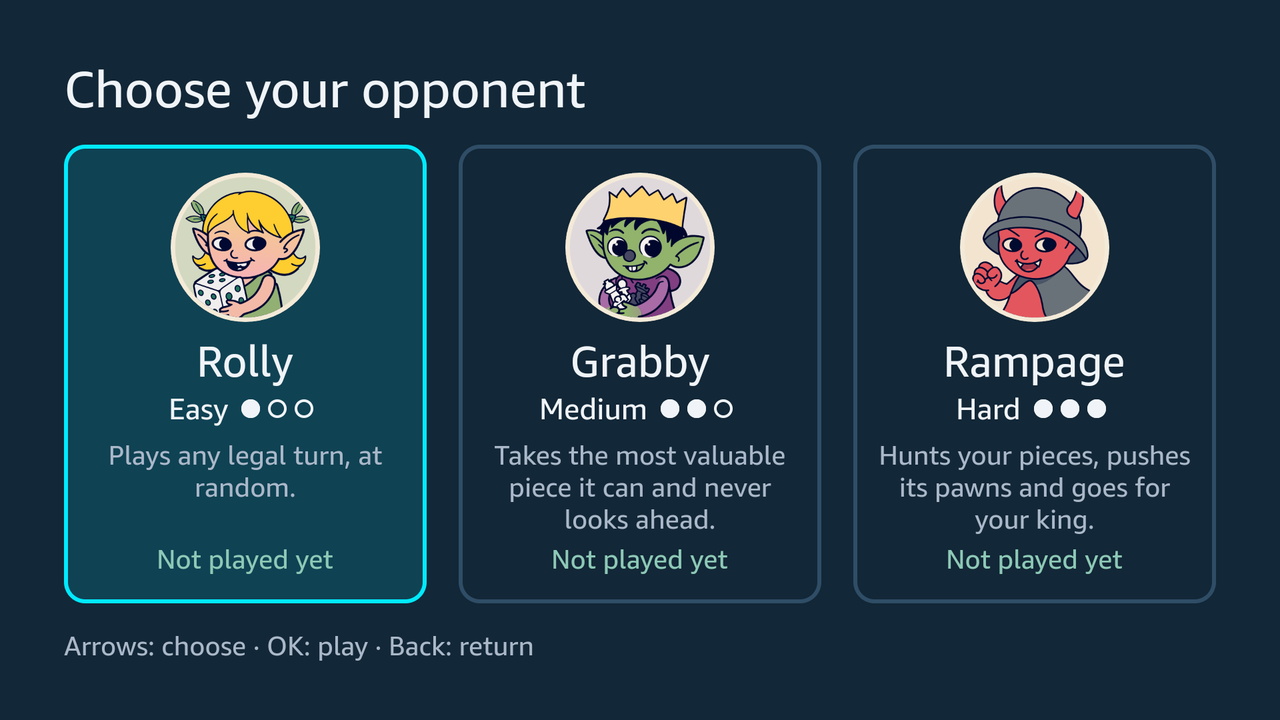
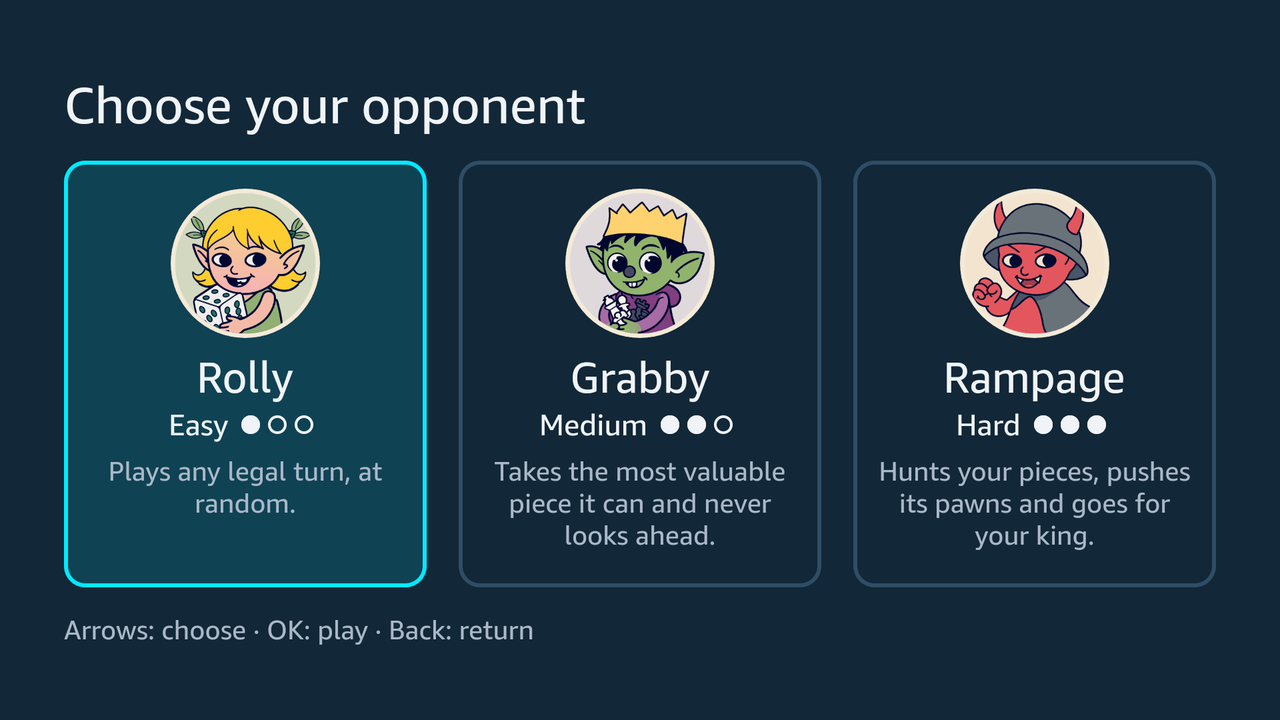
feat: take the record off the opponent cards (#341)
Each opponent card showed "As White: 2W 0D 1L" or "Not played yet".
On the TV that says little: it counts every game played on that TV,
whoever was holding the remote, so it does not say who won or lost,
and the people who play on one TV change from one evening to the next.
The Hot Seat record left the home screen for the same reason (#130).
A view that can tell players apart comes later; the first version
shows no record.

- The cards show the portrait, name, level and how the opponent plays.
  recordLines, recordAgainst and the ledger prop of OpponentScreen and
  GameScreen are gone.
- The ledger still counts every finished game, so the save format,
  the exactly-once counting and the testers' saved results are
  unchanged, and the privacy page stays true.
- Nothing renders the ledger now, so App keeps it in a ref rather than
  in state: counting a result no longer re-renders the app.
- The card test checks that a card shows exactly its name, level and
  style; the core test reads the ledger's per-opponent counts directly.
- README, native/README.md and the site no longer describe a record on
  the cards, and the opponents screenshot is retaken on the Vega
  Virtual Device.

Changed region(s): [[0.0312, 0.0917, 0.9688, 0.9167]]

diff --git a/native/src/OpponentScreen.tsx b/native/src/OpponentScreen.tsx
@@ -1,15 +1,15 @@
 // The choice of local opponent (#115): one card each, side by side, walked with
-// the arrows. A card shows the opponent's face, name and level, one line on how
-// it plays, and the person's record against it, so the home screen need not.
+// the arrows. A card shows the opponent's face, name and level, and one line on
+// how it plays. It shows no record against the opponent: the results are kept,
+// but a count by side cannot tell who was holding the remote, and the people
+// who play on one TV change from one evening to the next.
 //
 // Like the menus, the screen only draws what the reducer in screen.ts says:
 // the focused card and whether OK is held on it.
 import React from 'react';
 import { View, Text, useWindowDimensions } from 'react-native';
-import { OPPONENTS, recordAgainst } from '../../src/core/opponents';
+import { OPPONENTS } from '../../src/core/opponents';
 import type { Opponent } from '../../src/core/opponents';
-import type { Side } from '../../src/core/game';
-import type { BotRecord, Ledger } from '../../src/core/ledger';
 import { PORTRAIT_OF, Portrait } from './Portrait';
 import { THEME } from './theme';
 import { safeInsets } from './layout';
@@ -42,32 +42,16 @@ const Pips = ({ level }: { level: Opponent['level'] }) => {
   );
 };
 
-const line = (side: string, record: BotRecord): string =>
-  `As ${side}: ${record.wins}W ${record.draws}D ${record.losses}L`;
-
-// The record against one opponent, one line per side played.
-export const recordLines = (
-  sides: Partial<Record<Side, BotRecord>>,
-): string[] => {
-  const lines = [
-    ...(sides.w ? [line('White', sides.w)] : []),
-    ...(sides.b ? [line('Black', sides.b)] : []),
-  ];
-  return lines.length ? lines : ['Not played yet'];
-};
-
 const Card = ({
   opponent,
   width,
   focused,
   pressed,
-  ledger,
 }: {
   opponent: Opponent;
   width: number;
   focused: boolean;
   pressed: boolean;
-  ledger?: Ledger;
 }) => {
   const fill = pressed ? THEME.pressedFill : THEME.focusFill;
   return (
@@ -106,13 +90,6 @@ const Card = ({
       >
         {opponent.style}
       </Text>
-      {recordLines(ledger ? recordAgainst(ledger, opponent.mode) : {}).map(
-        (text) => (
-          <Text key={text} style={{ color: '#8dc9b6', fontSize: 20 }}>
-            {text}
-          </Text>
-        ),
-      )}
     </View>
   );
 };
@@ -120,13 +97,11 @@ const Card = ({
 export const OpponentScreen = ({
   index,
   pressed,
-  ledger,
 }: {
   // The focused card.
   index: number;
   // OK is held on it.
   pressed: boolean;
-  ledger?: Ledger;
 }) => {
   const { width, height } = useWindowDimensions();
   const insets = safeInsets(width, height);
@@ -154,7 +129,6 @@ export const OpponentScreen = ({
             width={card}
             focused={i === index}
             pressed={pressed}
-            ledger={ledger}
           />
         ))}
       </View>

diff --git a/native/test/opponents.test.tsx b/native/test/opponents.test.tsx
@@ -4,16 +4,15 @@ import { test } from 'node:test';
 import assert from 'node:assert/strict';
 import React from 'react';
 import renderer, { act } from 'react-test-renderer';
-import { OpponentScreen, recordLines } from '../src/OpponentScreen';
+import { OpponentScreen } from '../src/OpponentScreen';
 import { FACE_OF, PORTRAIT_OF, portraitPath } from '../src/Portrait';
 import { FACES } from '../src/faces';
 import { THEME } from '../src/theme';
 import { OPPONENTS } from '../../src/core/opponents';
-import { emptyLedger, type Ledger } from '../../src/core/ledger';
 import { isHost, type Instance, type Style } from './support';
 
 const mount = (
-  props: { index: number; pressed?: boolean; ledger?: Ledger } = { index: 0 },
+  props: { index: number; pressed?: boolean } = { index: 0 },
 ): Instance => {
   let tree!: renderer.ReactTestRenderer;
   act(() => {
@@ -104,20 +103,15 @@ test('the focused card is framed in the cursor’s colour, and shrinks while OK 
   assert.deepEqual(style(held, 0).transform, [{ scale: 1 }]);
 });
 
-test('a card shows the person’s record against that opponent, by side', () => {
-  const ledger: Ledger = {
-    ...emptyLedger(),
-    bots: {
-      greedy: {
-        w: { wins: 2, draws: 0, losses: 1 },
-        b: { wins: 0, draws: 1, losses: 3 },
-      },
-    },
-  };
-  const shown = cards(mount({ index: 0, ledger }));
-  assert.ok(texts(shown[0]).includes('Not played yet'));
-  assert.ok(texts(shown[1]).includes('As White: 2W 0D 1L'));
-  assert.ok(texts(shown[1]).includes('As Black: 0W 1D 3L'));
-  assert.ok(texts(shown[2]).includes('Not played yet'));
-  assert.deepEqual(recordLines({}), ['Not played yet']);
+test('a card shows who the opponent is and how it plays, and no record', () => {
+  // A count by side cannot tell who was holding the remote, so the card says
+  // nothing about earlier games.
+  assert.deepEqual(
+    cards(mount()).map(texts),
+    OPPONENTS.map((opponent) => [
+      opponent.name,
+      opponent.level,
+      opponent.style,
+    ]),
+  );
 });

diff --git a/native/src/App.tsx b/native/src/App.tsx
@@ -155,7 +155,9 @@ export const App = ({
       return { ledger: emptyLedger(), copyPending: !keptAside(ledgerStore) };
     }
   });
-  const [ledger, setLedger] = React.useState(openedLedger.ledger);
+  // Nothing on screen shows the ledger, so it is kept in a ref rather than in
+  // state: counting a result renders nothing.
+  const ledger = React.useRef(openedLedger.ledger);
   const copyPending = React.useRef(openedLedger.copyPending);
 
   // A result is recorded whenever one is seen, including on the launch after a
@@ -170,19 +172,16 @@ export const App = ({
         if (!keptAside(ledgerStore)) return;
         copyPending.current = false;
       }
-      setLedger((current) => {
-        const next = record(current, game);
-        if (next !== current)
-          void ledgerStore.save(next).catch(() => undefined);
-        return next;
-      });
+      const next = record(ledger.current, game);
+      if (next === ledger.current) return;
+      ledger.current = next;
+      void ledgerStore.save(next).catch(() => undefined);
     },
     [ledgerStore],
   );
 
   // Launch goes through the same count() as a game finishing in play, so there
-  // is one path that records a result. It sets state from an effect, once, and
-  // only when a finished game was never counted: one extra render at launch.
+  // is one path that records a result.
   React.useEffect(() => {
     if (opened.game) count(opened.game);
   }, [count, opened.game]);
@@ -434,7 +433,6 @@ export const App = ({
           options={options}
           initial={attempt.game}
           onCommit={onCommit}
-          ledger={ledger}
           onState={onState}
           sounds={sounds}
           initialSound={attempt.sound}

diff --git a/native/src/GameScreen.tsx b/native/src/GameScreen.tsx
@@ -15,7 +15,6 @@ import {
   type Side,
 } from '../../src/core/game';
 import { opponentOf } from '../../src/core/opponents';
-import type { Ledger } from '../../src/core/ledger';
 import { pieceAt } from '../../src/core/board';
 import { movableSquares, type BoardKey } from '../../src/core/boardInput';
 import { Board } from './Board';
@@ -89,8 +88,6 @@ export type GameScreenProps = {
   // Called with every committed game, and only those: moving the cursor does
   // not produce a new game, so this does not fire for it.
   onCommit?: (game: Game) => void;
-  // Completed games so far. The screen shows it and never changes it.
-  ledger?: Ledger;
   // Diagnostic seam for device checks. Vega has no screenshot command and a
   // Release build does not route console output anywhere readable, so the only
   // way to know what the screen shows is to let it say so.
@@ -624,7 +621,6 @@ export const GameScreen = ({
   options,
   initial,
   onCommit,
-  ledger,
   onState,
   sounds,
   initialSound = true,
@@ -953,9 +949,7 @@ export const GameScreen = ({
   // The choice of opponent takes the whole screen: three cards need the width
   // the board would take. The remote stays with this screen and its reducer.
   if (overlay.kind === 'opponent')
-    return (
-      <OpponentScreen index={overlay.index} pressed={pressed} ledger={ledger} />
-    );
+    return <OpponentScreen index={overlay.index} pressed={pressed} />;
 
   const size = boardSide(width, height);
   const insets = safeInsets(width, height);

diff --git a/test/opponents.test.ts b/test/opponents.test.ts
@@ -13,7 +13,7 @@ import {
 } from '../src/core/game.ts';
 import { botReply } from '../src/core/bot.ts';
 import { emptyLedger, record } from '../src/core/ledger.ts';
-import { OPPONENTS, opponentOf, recordAgainst } from '../src/core/opponents.ts';
+import { OPPONENTS, opponentOf } from '../src/core/opponents.ts';
 
 test('the opponents are the bot modes, each an engine algorithm that is not experimental', () => {
   assert.deepEqual(
@@ -107,11 +107,8 @@ test('results are kept apart for each opponent', () => {
     );
   let ledger = record(emptyLedger(), lost('greedy'));
   ledger = record(ledger, lost('aggressive'));
-  assert.deepEqual(recordAgainst(ledger, 'greedy'), {
-    w: { wins: 0, draws: 0, losses: 1 },
+  assert.deepEqual(ledger.bots, {
+    greedy: { w: { wins: 0, draws: 0, losses: 1 } },
+    aggressive: { w: { wins: 0, draws: 0, losses: 1 } },
   });
-  assert.deepEqual(recordAgainst(ledger, 'aggressive'), {
-    w: { wins: 0, draws: 0, losses: 1 },
-  });
-  assert.deepEqual(recordAgainst(ledger, 'random'), {});
 });

diff --git a/src/core/ledger.ts b/src/core/ledger.ts
@@ -13,10 +13,12 @@
 // Hotseat is reported by colour, never by player. The seats change hands and
 // the ledger has no way to know who sat where.
 //
-// Only the record against each computer opponent is shown, on its card. The
-// hotseat counts are still kept, so the save format stays the same, but the
-// home screen no longer shows them: counts by colour say nothing about the
-// people who played, who change from one evening to the next.
+// Nothing shows the ledger. Counts by colour in hotseat say nothing about the
+// people who played, who change from one evening to the next, and the record
+// against a computer opponent has the same flaw: it counts every game played
+// on the TV, whoever held the remote. The ledger still counts, so the save
+// format stays the same and the results are there for a view that can tell
+// the players apart.
 
 import type { Game, Side } from './game.ts';
 import { hasExactKeys } from './keys.ts';

diff --git a/src/core/opponents.ts b/src/core/opponents.ts
@@ -4,8 +4,7 @@
 // Each plays the engine algorithm its mode names. The level follows the
 // engine's own difficulty rating for that algorithm (DiceChess.getAvailableBots),
 // which the tests check, so a card never promises more than the engine claims.
-import type { BotMode, Side } from './game.ts';
-import type { BotRecord, Ledger } from './ledger.ts';
+import type { BotMode } from './game.ts';
 
 export type Level = 'Easy' | 'Medium' | 'Hard';
 
@@ -44,9 +43,3 @@ export function opponentOf(mode: BotMode): Opponent {
   if (!opponent) throw new Error('No opponent for ' + mode);
   return opponent;
 }
-
-// The person's results against one opponent, by the side they played.
-export const recordAgainst = (
-  ledger: Ledger,
-  mode: BotMode,
-): Partial<Record<Side, BotRecord>> => ledger.bots[mode] ?? {};

diff --git a/native/test/ledger.test.tsx b/native/test/ledger.test.tsx
@@ -33,7 +33,7 @@ test('a finished game is counted, and the home screen shows no hotseat record', 
   assert.deepEqual(ledger()?.hotseat, { white: 0, draws: 0, black: 1 });
 
   // Back to the home screen: counts by colour say nothing about who played, so
-  // the menu stands alone. The record against an opponent is on its card.
+  // the menu stands alone. Nothing else shows the record either.
   send('enter');
   assert.doesNotMatch(text(root), /COMPLETED GAMES/);
   assert.doesNotMatch(text(root), /Hotseat —/);

diff --git a/site/src/content/docs/project/features.md b/site/src/content/docs/project/features.md
@@ -1,6 +1,6 @@
 ---
 title: What it does
-description: 'A tour of Dice Chess for Fire TV: Hot Seat on one remote with Prowla, Rolly or Thinkle as host, three computer opponents as either colour, the tutorial and the rules guide, saving, your record against each opponent, sound, music that follows the danger to the king, and rematch.'
+description: 'A tour of Dice Chess for Fire TV: Hot Seat on one remote with Prowla, Rolly or Thinkle as host, three computer opponents as either colour, the tutorial and the rules guide, saving, sound, music that follows the danger to the king, and rematch.'
 sidebar:
   order: 2
 ---
@@ -21,7 +21,7 @@ Prowla the cat hosts Hot Seat games, or in her place Rolly, the friendliest of t
 
 ## Three opponents, as either colour
 
-![The choice of opponent: three cards, Rolly, Grabby and Rampage, each with a portrait, a level, a line on how it plays and your record against it](../../../assets/screenshots/opponents.png)
+![The choice of opponent: three cards, Rolly, Grabby and Rampage, each with a portrait, a level and a line on how it plays](../../../assets/screenshots/opponents.png)
 
 A person alone plays one of three opponents that run on the TV. They are chosen on cards:
 
@@ -29,7 +29,7 @@ A person alone plays one of three opponents that run on the TV. They are chosen 
 - **Grabby** (Medium) takes the most valuable piece it can;
 - **Rampage** (Hard) hunts your pieces and goes for your king.
 
-Each is an algorithm of the Dice Chess rules engine, and each card shows your record against it. Each has a portrait drawn for the game, and in a game it talks from beside it at the top of the screen. A build without the portraits shows RhosGFX's Vector Emojis, by the artist of the pieces, in their place. Every opponent shows its turn one action at a time, and each piece slides to its new square, the opponent's and yours alike, so a turn can be followed from the sofa. Frames recorded on the virtual device show Grabby's knight sliding onto a queen it took in under a quarter of a second, and the tests cover captures, castling, en passant and promotion.
+Each is an algorithm of the Dice Chess rules engine. Each has a portrait drawn for the game, and in a game it talks from beside it at the top of the screen. A build without the portraits shows RhosGFX's Vector Emojis, by the artist of the pieces, in their place. Every opponent shows its turn one action at a time, and each piece slides to its new square, the opponent's and yours alike, so a turn can be followed from the sofa. Frames recorded on the virtual device show Grabby's knight sliding onto a queen it took in under a quarter of a second, and the tests cover captures, castling, en passant and promotion.
 
 Before the game you choose White or Black, or let the app pick a colour. Playing Black turns the board so that your pieces are at the bottom.
 
@@ -64,9 +64,9 @@ Nine topics, from how a game ends to castling, promotion, en passant and draws. 
 
 ![The rules guide on the topic Use as many dice as you can](../../../assets/screenshots/rules.png)
 
-## Saving, resuming and the record
+## Saving and resuming
 
-The game is saved after every action. The app opens on the home screen, where "Resume game" continues where the game stopped: on the virtual device, a game force-stopped mid-turn and relaunched came back as it was. Your record against each computer opponent, as wins, draws and losses for each side you played, is on its card: the tests check it, and on the virtual device a card showed a win as White and a loss as Black against Grabby.
+The game is saved after every action. The app opens on the home screen, where "Resume game" continues where the game stopped: on the virtual device, a game force-stopped mid-turn and relaunched came back as it was. The app also counts the results of finished games, but shows them nowhere for now: a count cannot tell who was holding the remote, and the people who play on one TV change from one evening to the next.
 
 ![The home screen with Resume game focused over a game in progress](../../../assets/screenshots/resume.png)
 

diff --git a/site/src/content/docs/technology/architecture.md b/site/src/content/docs/technology/architecture.md
@@ -93,7 +93,7 @@ What was built during the hackathon, and what existed before it:
 | **Fire TV Application (`native/`)**                | New          | Written during the hackathon, starting from the Vega SDK's `helloWorld` project template, in a repository started on 21 September 2026.                                                                                                                                                                                                                  |
 | **Pure TypeScript Core (`src/core/`)**             | New          | Written during the hackathon for this app. It served the WebView probe and the native app until the probe was removed on 23 September 2026; now the native app, the browser test bench and the Node tests run it.                                                                                                                                        |
 | **Remote Navigation Model (`src/core/cursor.ts`)** | New          | Directional jumps between the pieces that can move, then between the chosen piece's destinations: 61% fewer presses than square by square, over 200 simulated games in Node (`npm run presses`).                                                                                                                                                         |
-| **Local Bot Opponents (`src/core/bot.ts`)**        | New          | Rolly, Grabby and Rampage as TV opponents, with cards showing each one's level and the person's record against it. Their moves come from the engine's existing algorithms (random, greedy, aggressive).                                                                                                                                                  |
+| **Local Bot Opponents (`src/core/bot.ts`)**        | New          | Rolly, Grabby and Rampage as TV opponents, with cards showing each one's level and how it plays. Their moves come from the engine's existing algorithms (random, greedy, aggressive).                                                                                                                                                                    |
 | **Interactive Tutorial & Rules Guide**             | New          | 6-lesson interactive tutorial taught by Thinkle the wizard and 9-topic remote-friendly rules guide.                                                                                                                                                                                                                                                      |
 | **Animations & Audio**                             | New          | New code: a 220 ms piece slide, a 260 ms roll tumble, 10 sound cues, and music that follows the danger to the king (a menu theme and one theme for each of three danger levels). The sound effects (Kenney, JDSherbert) and the four music themes (pepka-prygni) are third-party work, used under their licences or with their authors' permission.      |
 | **Virtual Device driver (`vega-vvd-driver`)**      | New          | A separate, MIT-licensed repository started on 27 September 2026: a command, a Node library and an MCP server that press remote keys, take screenshots, record video and capture frames on the Vega Virtual Device through the Android emulator's gRPC API and console. It does not work with a Fire TV Stick, and this repository's CI does not use it. |

diff --git a/README.md b/README.md
@@ -46,7 +46,7 @@ The application has no network code, no accounts and no analytics. Games, result
 - Hotseat: two people take turns using one remote after each complete Dice Chess turn, with an optional living-room setting to turn the board to the active player's side, and a neutral host who cheers both players at the pauses and at the big moments as they happen (#202, #227): Prowla the cat (#258), Rolly, or Thinkle the wizard (#279). While the host speaks, she shows with her line above the bottom badge (#213: seen on the Vega Virtual Device and checked by tests, not yet checked on a Fire TV Stick), and Settings chooses the host, Prowla by default, or turns her off.
 - Several entirely local bots: Rolly, Grabby and Rampage today, each one of the engine's algorithms. The interface must never stall: these three compute their reply on the JavaScript thread and have not needed a thread of their own on the Vega Virtual Device, and a stronger bot's strength must come from its algorithm or a bounded amount of work, never from wall-clock time.
 - No stake doubling, coins, wallets or betting in the initial game.
-- Local win/draw/loss (W/D/L) statistics, separated by opponent and hotseat mode.
+- Local win/draw/loss (W/D/L) counts, by opponent and side played, and by colour in Hot Seat. The first version counts them but shows none: a count cannot tell who was holding the remote, and a view that can tell the players apart comes later.
 - D-pad, OK and Back navigation through the board, dice, promotion, menus and results.
 - Save and resume the full game state, including the existing dice roll and remaining actions.
 - A self-contained installed package as the offline target.

diff --git a/site/src/content/docs/roadmap/index.md b/site/src/content/docs/roadmap/index.md
@@ -10,7 +10,7 @@ The app was built during [Build, Ship, Shape: Amazon Developer Hackathon 2026](h
 Every feature here was played on the Vega Virtual Device, and the app's automated tests cover it. Since 6 October 2026 the game has also run on a Fire TV Stick 4K Select, though not every feature has been checked there yet.
 
 - **A native board** in React Native for Vega, played entirely with the remote.
-- **Hot Seat** on one remote, **saving** after every action, and the record of results.
+- **Hot Seat** on one remote, and **saving** after every action.
 - **A six-lesson tutorial**, offered on the first launch and leading into a first game, and a **rules guide**.
 - **Sound** for every step of the game.
 - **Three computer opponents**, Rolly, Grabby and Rampage, as either colour, each with a portrait drawn for the game, speech bubbles and a synthetic voice. They are fairy-tale characters, a pixie, a goblin and a little horned imp, and their voices act their lines. An opponent talks from beside its portrait at the top of the screen. The portraits are in the build on the Appstore Beta Hub; the public packages show emoji faces in their place for now.
